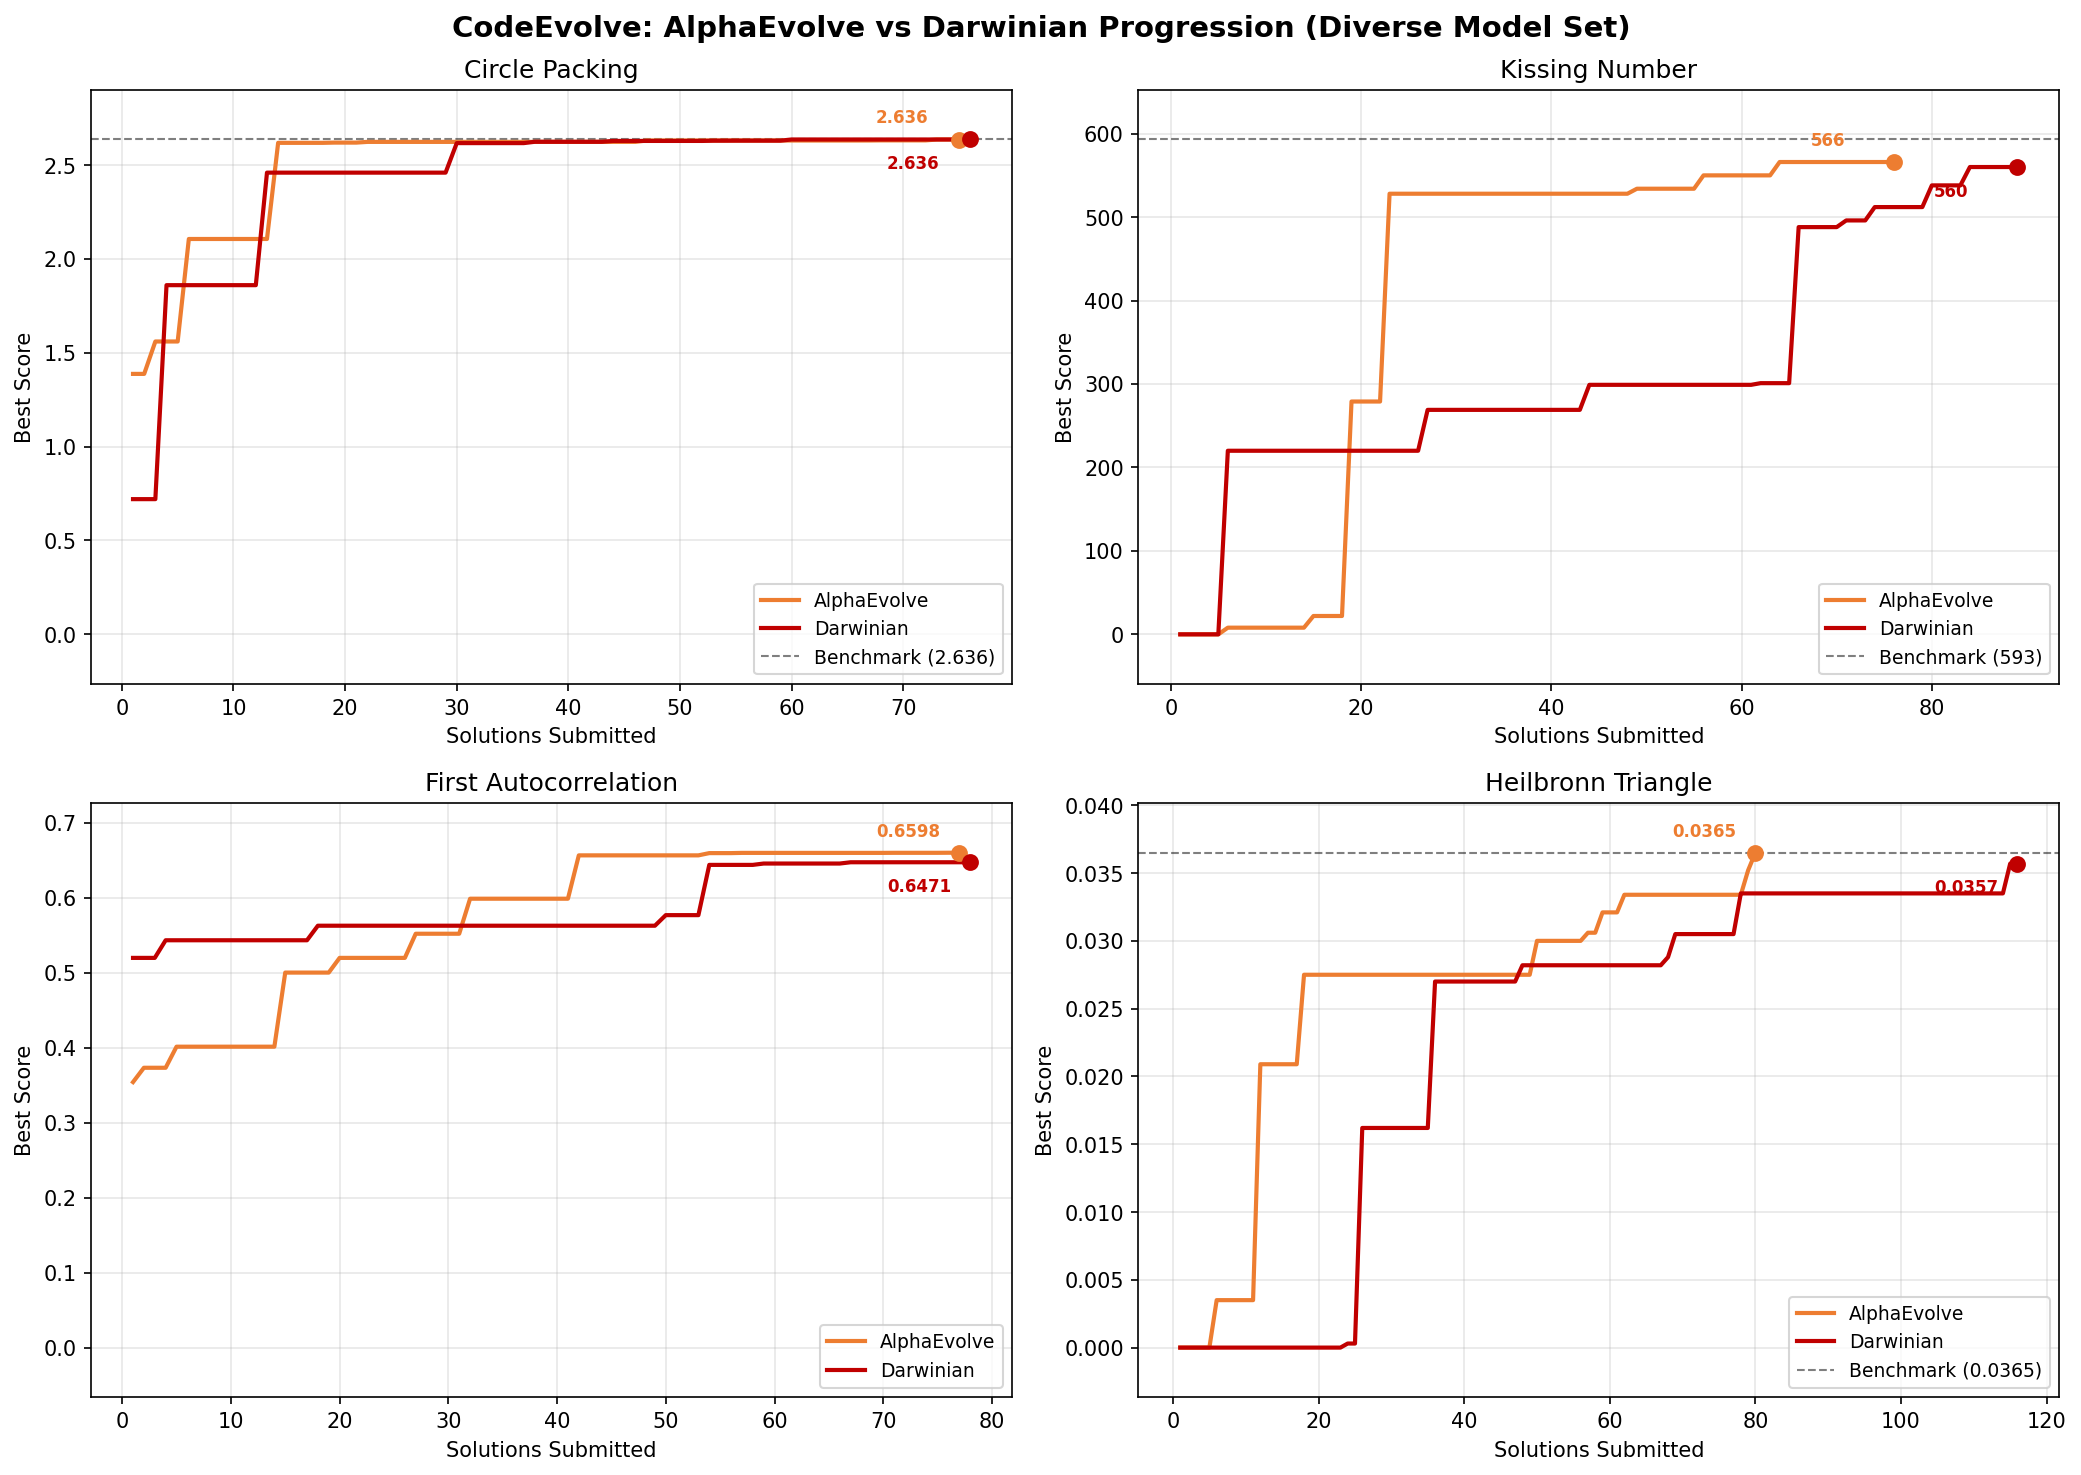
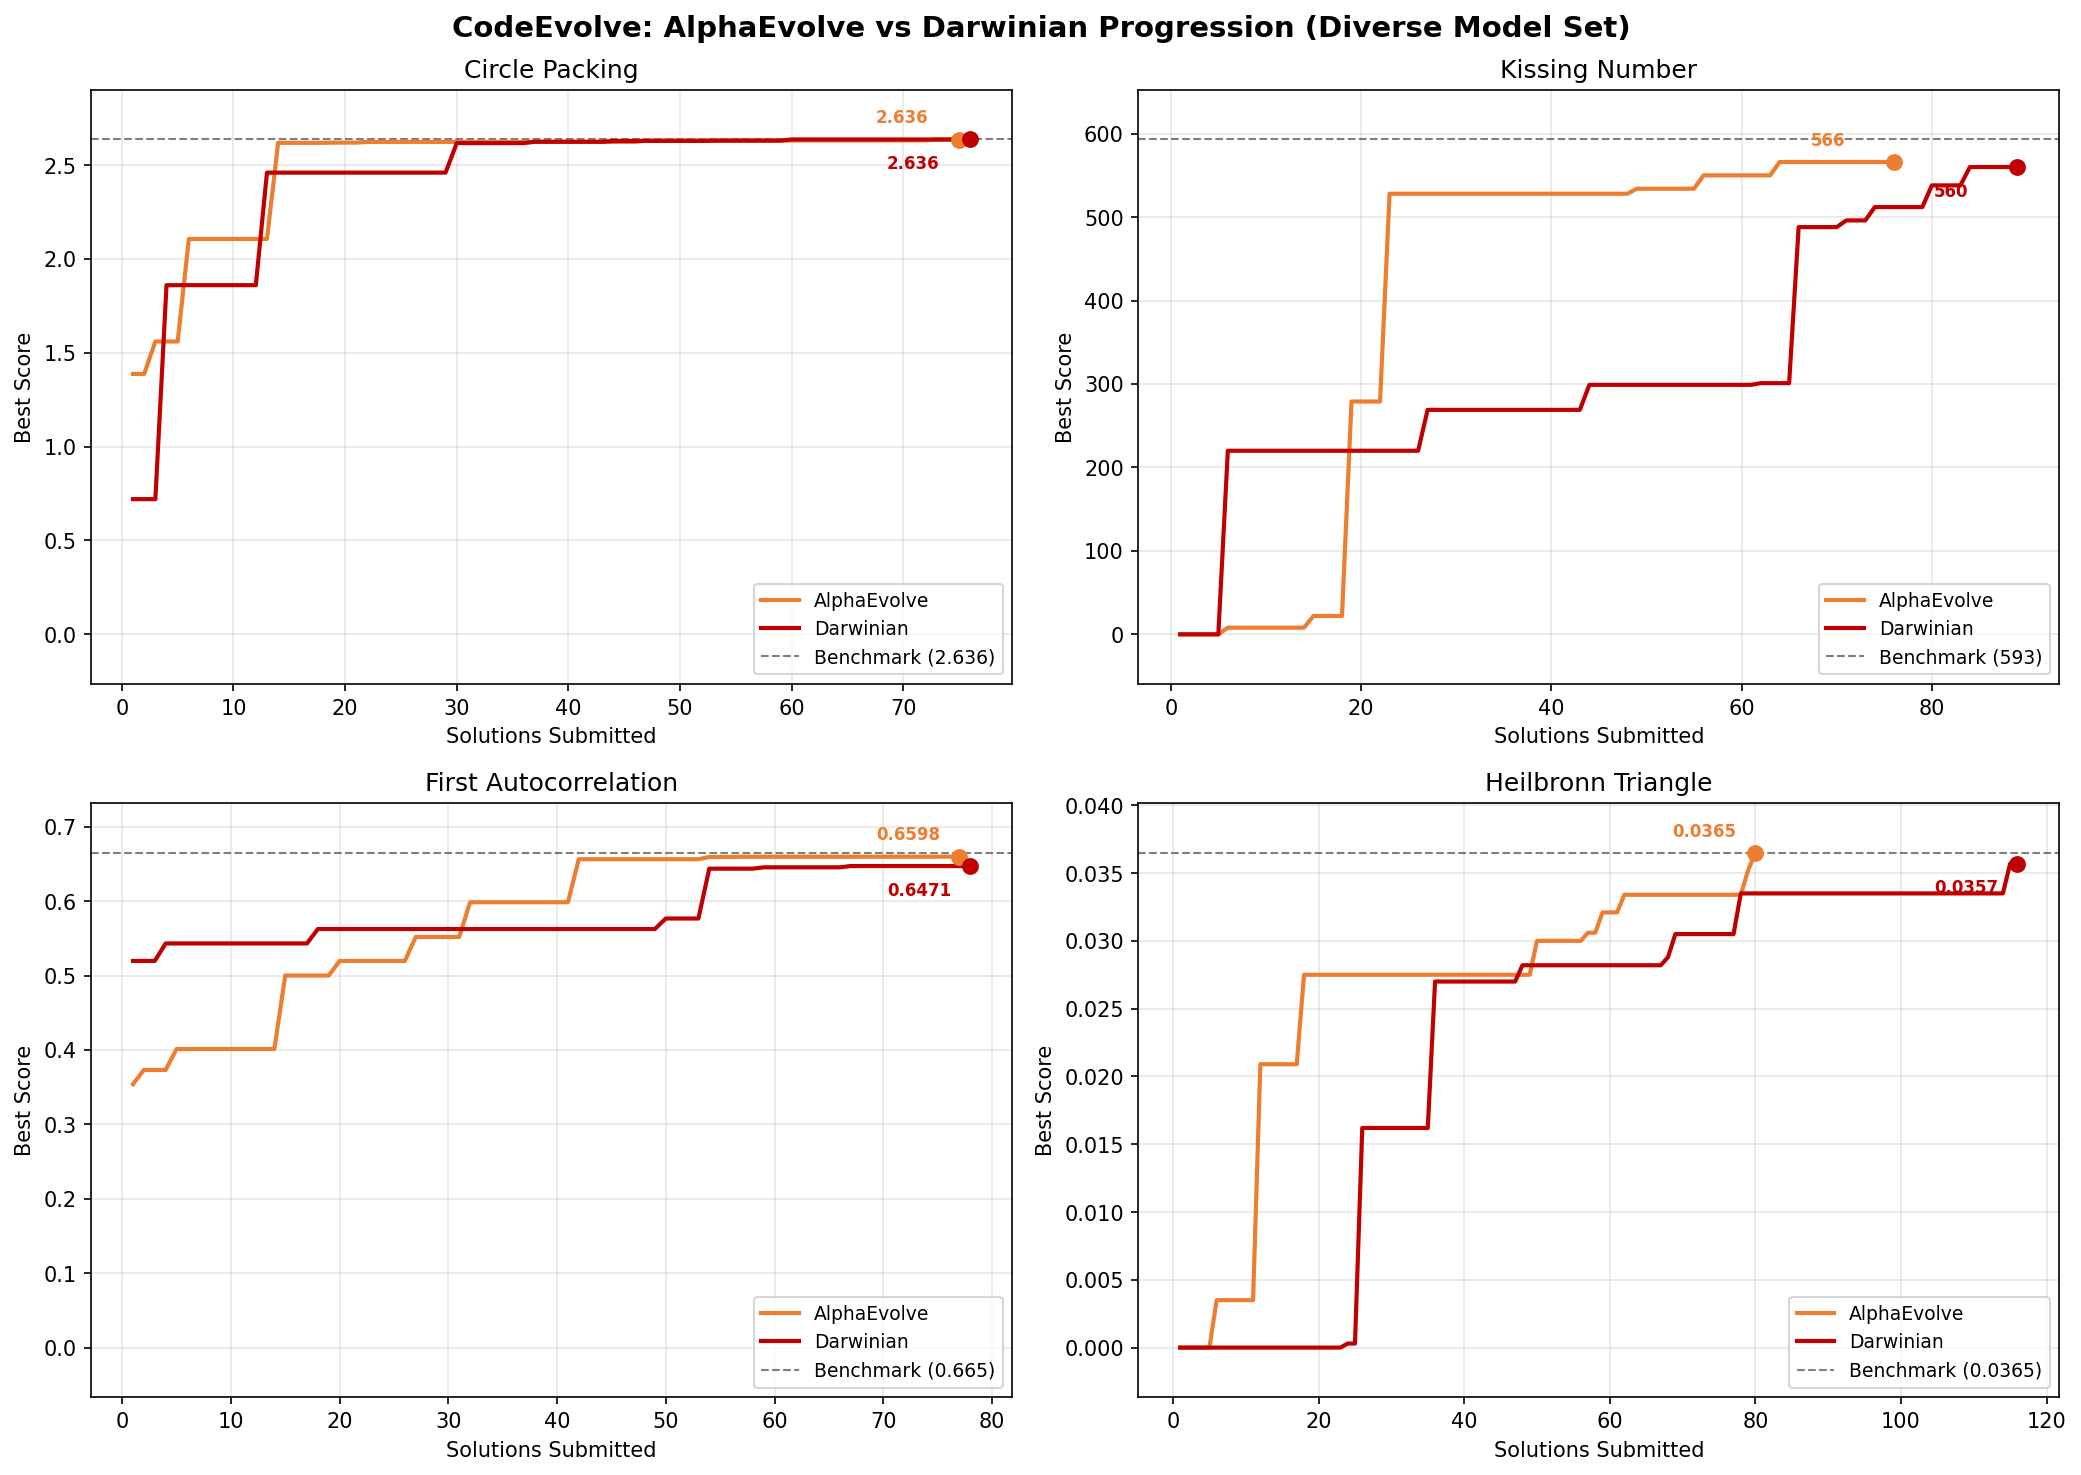
Fix remaining instanceof check missing parse_benchmark in progression plot
The replace_all missed the third occurrence in plot_progression().

diff --git a/benchmarks/codeevolve/plot_results.py b/benchmarks/codeevolve/plot_results.py
@@ -158,8 +158,8 @@ def plot_progression():
     # Benchmarks from results.json
     benchmarks: dict[str, float] = {}
     for r in load_results("diverse_model_set_full_run") + load_results("diverse_model_set_darwinian"):
-        bench = r.get("benchmark")
-        if bench is not None and not isinstance(bench, str):
+        bench = parse_benchmark(r.get("benchmark"))
+        if bench is not None:
             benchmarks[r["task"]] = bench
 
     fig, axes = plt.subplots(2, 2, figsize=(14, 10))
